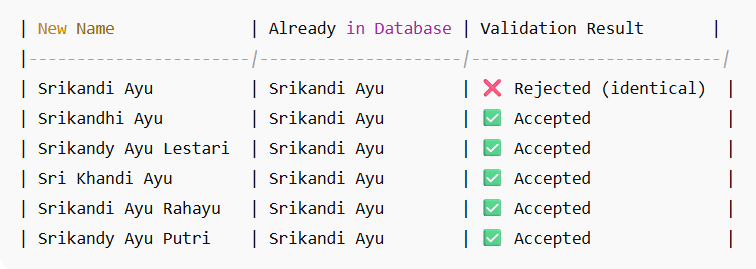
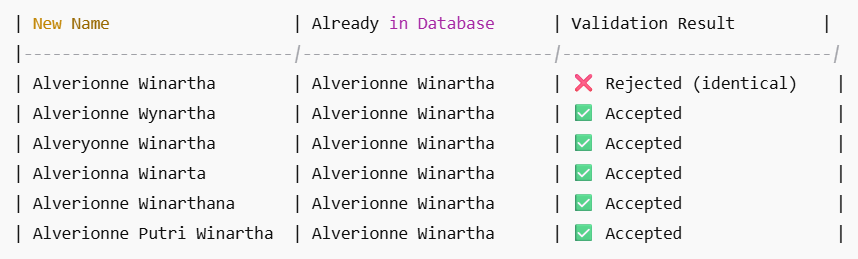
update name

diff --git a/src/BCList.tsx b/src/BCList.tsx
@@ -164,19 +164,19 @@ function BCList() {
             key: '1',
             createTime: '2020-02-18 05:31',
             nik:'3571XXXXXXXXXXXXXXXXX',
-            fullname: 'SRIKANDI AYU',
+            fullname: 'Alverionne Winartha',
             placeofbirth: 'JAKARTA PUSAT',
             dateofbirth: '2019-12-09',
             gender: 'FEMALE',
             childno: '1',
-            fathername: 'Ardy Prasetya',
+            fathername: 'Ardy Winartha',
             mothername: 'Sri Suharti'
         },
         {
             key: '2',
             createTime: '2020-01-17 05:31',
             nik:'3374XXXXXXXXXXXXXXXXX',
-            fullname: 'SRI KANDI AYU',
+            fullname: 'Srikandi Ayu',
             placeofbirth: 'JAKARTA SELATAN',
             dateofbirth: '2020-02-12',
             gender: 'FEMALE',
@@ -188,7 +188,7 @@ function BCList() {
             key: '3',
             createTime: '2020-01-17 05:31',
             nik:'3374XXXXXXXXXXXXXXXXX',
-            fullname: 'SRIKANDY AYU',
+            fullname: 'Srikandhy Ayu',
             placeofbirth: 'DEPOK',
             dateofbirth: '2020-02-12',
             gender: 'FEMALE',

diff --git a/src/Home.tsx b/src/Home.tsx
@@ -58,7 +58,7 @@ function Home() {
     };
 
     // set input baby full name
-    const [valueFullName, setValueFullName] = useState('Srikandi Ayu');
+    const [valueFullName, setValueFullName] = useState('Alverionne Winartha');
 
     const handleChangeFullName = (value) => {
         setValueFullName(value);
@@ -74,7 +74,7 @@ function Home() {
     }
 
     // additional field
-    const [valueFatherName, setValueFatherName] = useState('Ardy Prasetya');
+    const [valueFatherName, setValueFatherName] = useState('Ardy Winartha');
     const handleChangeFatherName = (value) => {
         setValueFatherName(value);
     };
@@ -269,8 +269,7 @@ function Home() {
                                     <br/>
                                     <div>For Example:</div>
                                     <Image
-                                        width={756}
-                                        height={269}
+                                        width={800}
                                         src="http://localhost:5173/fullname_example.png"
                                     />
                                     <br/><br/>

diff --git a/src/BCRegistration.tsx b/src/BCRegistration.tsx
@@ -49,7 +49,7 @@ function BCRegistration() {
     const style = { width: '90%' };
 
     // additional field
-    const [valueFatherName, setValueFatherName] = useState('Ardy Prasetya');
+    const [valueFatherName, setValueFatherName] = useState('Ardy Winartha');
     const handleChangeFatherName = (value) => {
         setValueFatherName(value);
     };
@@ -261,7 +261,7 @@ function BCRegistration() {
                                         <div style={{color:'var(--semi-color-success)'}}>Data was saved successfully.</div>
                                         <Input
                                             field="nik"
-                                            label={"NIK Generated for'" + valueFullName + "'"}
+                                            label={"NIK Generated for '" + valueFullName + "'"}
                                             initValue={"3374XXXXXXXXXXXXXXXXX"}
                                             //value={"3374XXXXXXXXXXXXXXXXX"}
                                             style={style}

diff --git a/src/custom.css b/src/custom.css
@@ -6,3 +6,7 @@ button.btnPrintCertificate{
 button.btnPrintCertificate:hover {
     background-color: rgba(var(--semi-purple-7)) !important;
 }
+
+.semi-avatar-blue {
+    background-color: var(--semi-color-primary) !important;
+}
